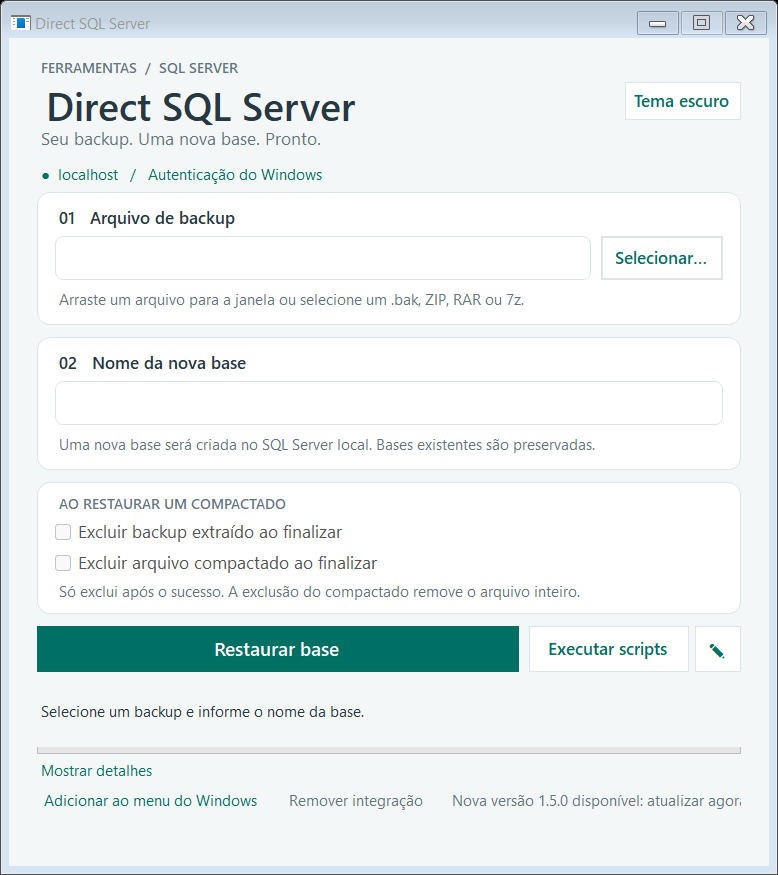
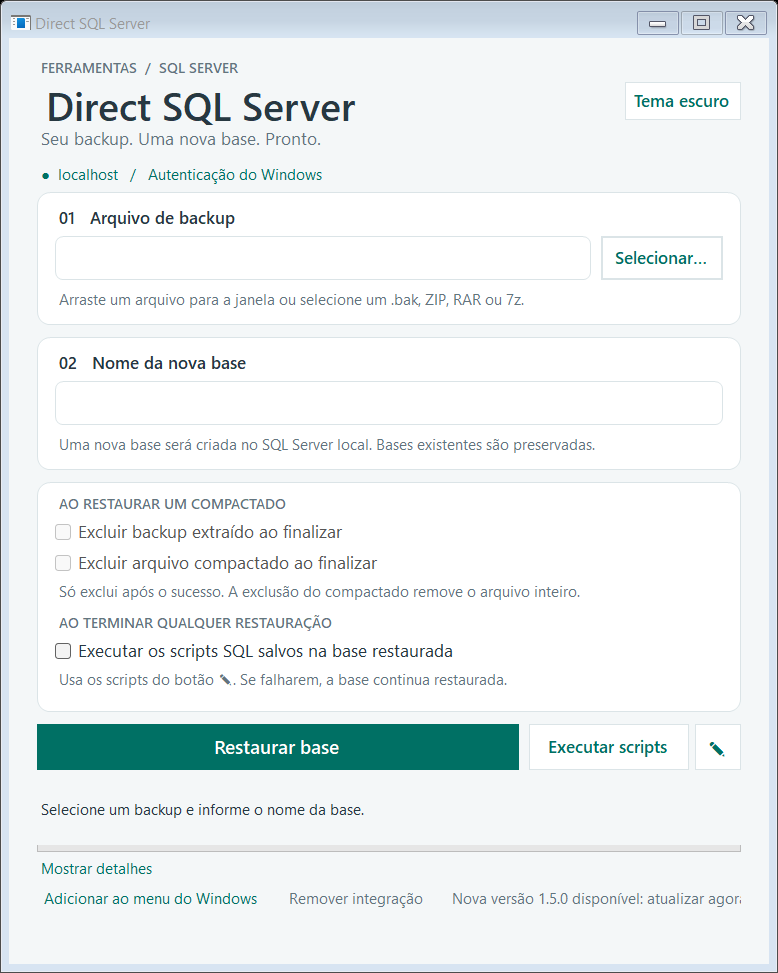
Document the run-scripts-after-restore option

diff --git a/README.md b/README.md
@@ -183,6 +183,18 @@ Ao lado de **Restaurar base** há o botão **Executar scripts** e um lápis para
   <img src="docs/img/09-scripts-executados-claro.png" alt="Scripts executados com sucesso, com as linhas afetadas nos detalhes" width="460">
 </p>
 
+### Executar automaticamente depois de restaurar
+
+Na caixa de opções existe **Executar os scripts SQL salvos na base restaurada** (em *Ao terminar qualquer restauração*). Marcada, o app roda os scripts salvos logo depois de **restaurar com sucesso**, sem pedir confirmação nem precisar clicar em **Executar scripts**.
+
+- **Desmarcada por padrão.** A escolha fica salva em `%APPDATA%\DirectSqlServer\preferences.xml` e continua depois de reiniciar o PC.
+- **Vale para `.bak` e para compactados.**
+- **Se os scripts falharem,** a base continua restaurada. Só os scripts são desfeitos (transação única) e o erro aparece em vermelho com os detalhes abertos.
+- **Sem scripts salvos,** o app apenas avisa que não havia nada para executar.
+- Como roda sem perguntar, confira o texto no editor (lápis) antes de marcar a opção.
+
+### Regras da execução
+
 - **Tudo ou nada:** todos os lotes rodam em **uma única transação**. Se um comando falhar, **nada é alterado**.
 - **Lotes:** uma linha só com `GO` separa lotes, como no SSMS. Sem `GO`, tudo vai em um lote.
 - **Só em base existente:** a base precisa existir e estar online. Bases de sistema (`master`, `model`, `msdb`, `tempdb`) são recusadas.
@@ -240,7 +252,7 @@ Se o serviço do SQL Server não tem permissão para ler o backup (comum em Down
 | O quê | Onde |
 |---|---|
 | Aplicativo instalado | `%LOCALAPPDATA%\DirectSqlServer` |
-| Opções de exclusão | `%APPDATA%\DirectSqlServer\preferences.xml` |
+| Opções das caixas de marcar (exclusão e scripts automáticos) | `%APPDATA%\DirectSqlServer\preferences.xml` |
 | Tema | `%APPDATA%\DirectSqlServer\theme.txt` |
 | Scripts SQL | `%APPDATA%\DirectSqlServer\scripts.sql` |
 | Registros de cada restauração | `%LOCALAPPDATA%\DirectSqlServer\Logs` (contêm nomes de bases e caminhos locais) |

diff --git a/CHANGELOG.md b/CHANGELOG.md
@@ -4,6 +4,7 @@
 
 ### Scripts SQL depois de restaurar
 - Novo botão **Executar scripts** e um lápis para **editar** os comandos. Eles rodam na base indicada em "Nome da nova base", todos em uma única transação (se um falhar, nada é alterado), com `GO` para separar lotes.
+- Nova opção **Executar os scripts SQL salvos na base restaurada**, desmarcada por padrão e lembrada após reiniciar o PC: roda os scripts automaticamente quando a restauração termina com sucesso. Se eles falharem, a base continua restaurada e só os scripts são desfeitos.
 - Vem com o script padrão (ambiente de homologação e e-mails de teste). Os scripts editados ficam salvos em `%APPDATA%\DirectSqlServer\scripts.sql`, mesmo após reiniciar o PC ou atualizar o app.
 
 ## 1.6.0
